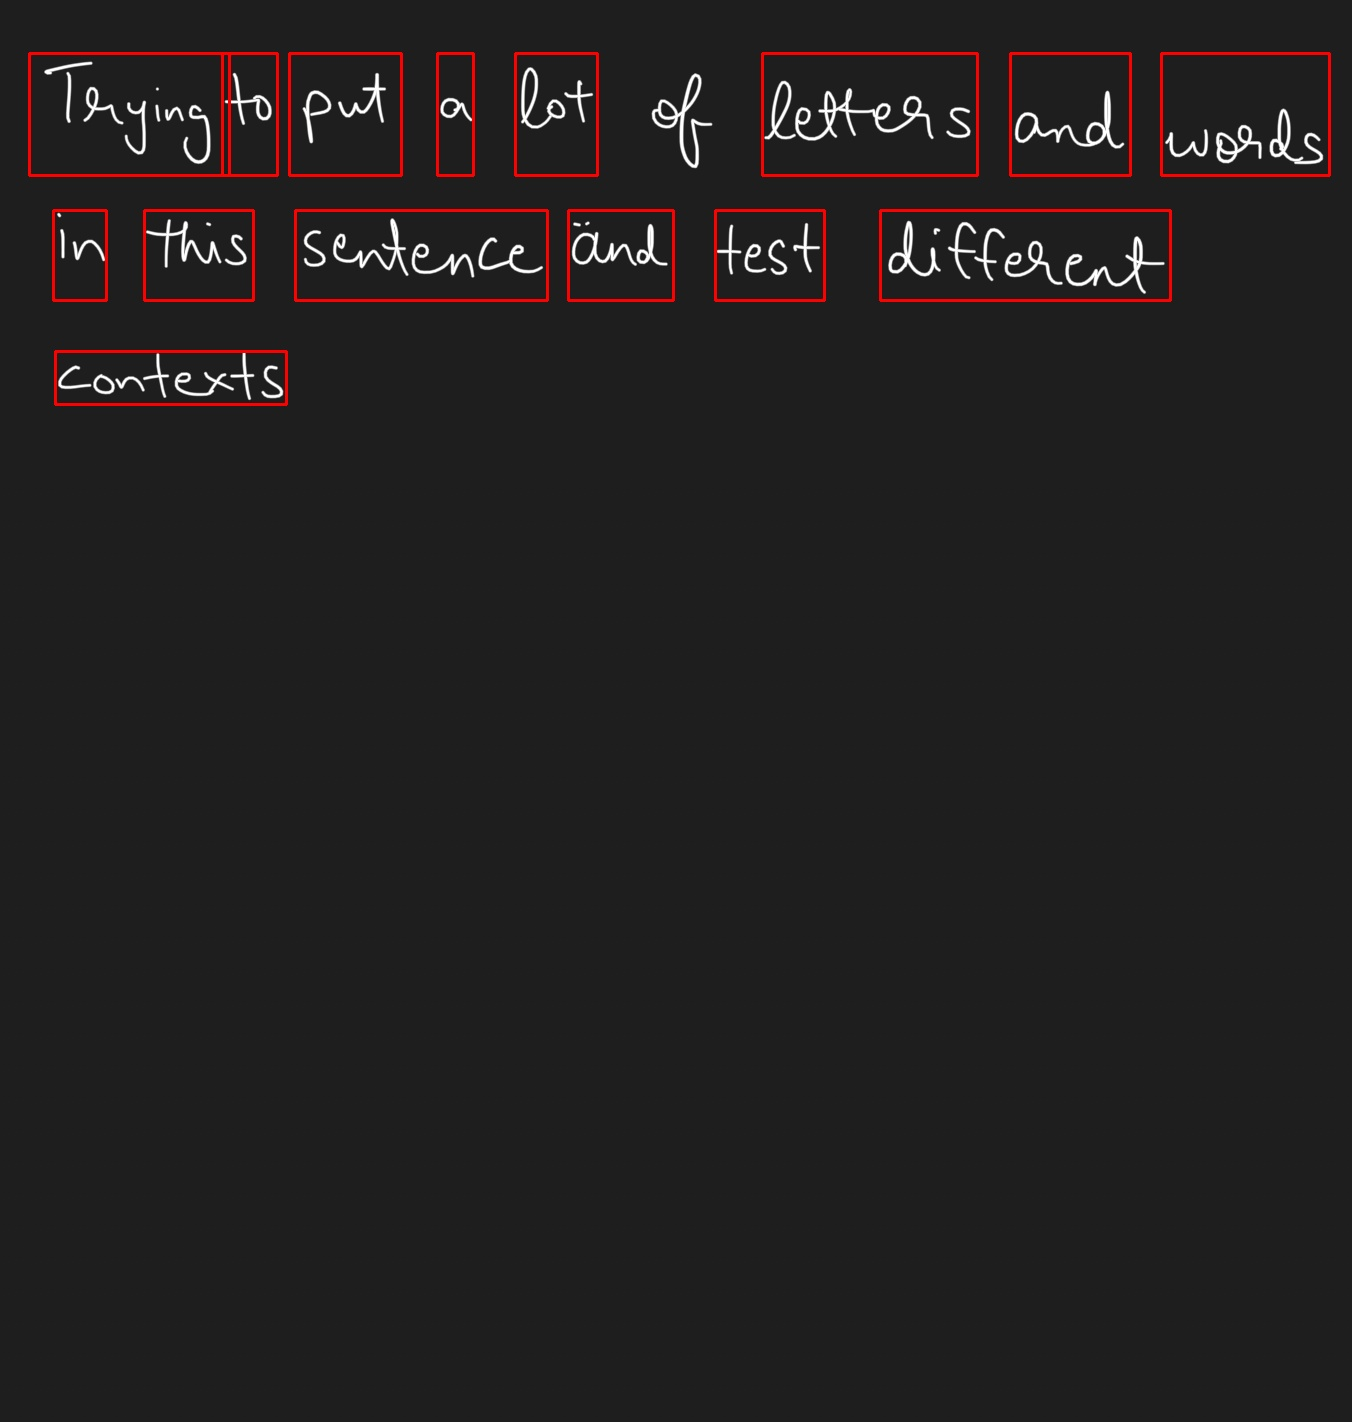
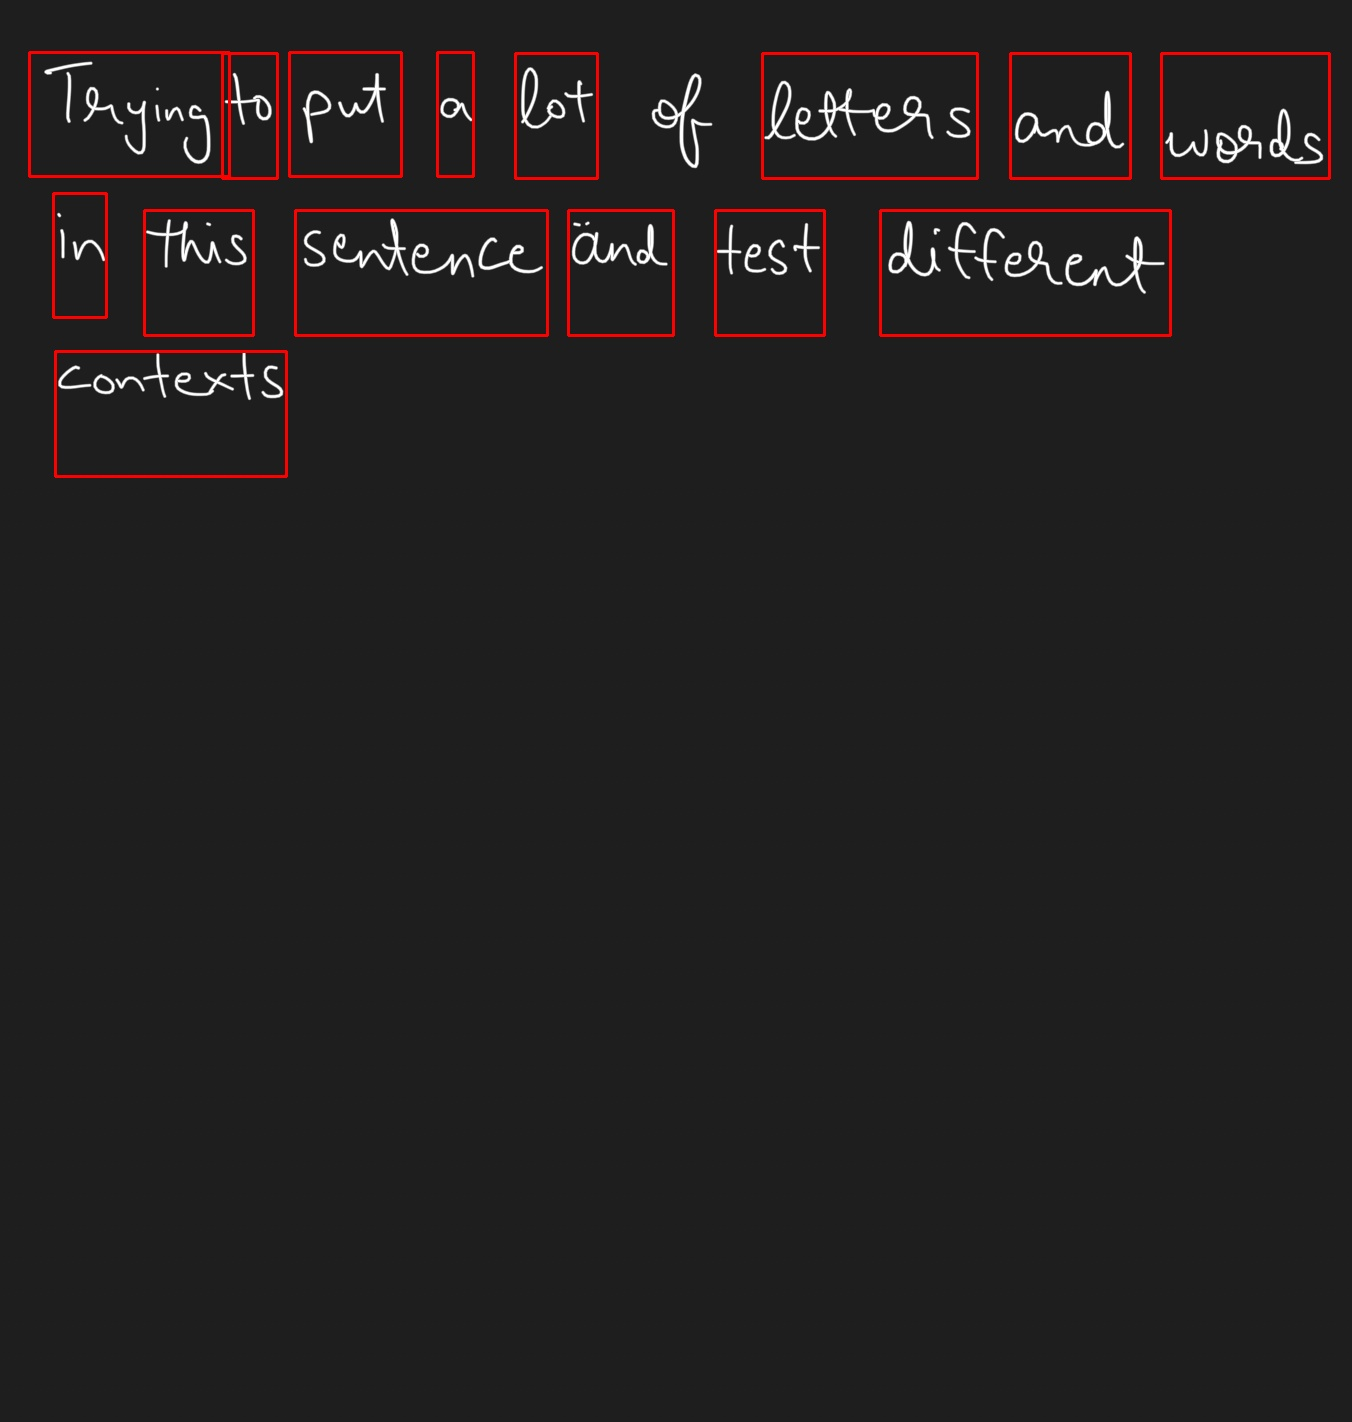
Add json encoded lines file

diff --git a/main.py b/main.py
@@ -1,19 +1,22 @@
 import cv2
 import numpy as np
 
+import constants
 from CRAFT import object_detector
 from transformers import TrOCRProcessor, VisionEncoderDecoderModel
 from PIL import Image, ImageOps
 
 if __name__ == '__main__':
     input_image_path = 'CRAFT/inputs/note.png'
-    input_image = Image.open(input_image_path).convert("RGB")
     bboxes = object_detector.generate_bbox(input_image_path=input_image_path, cuda=False).astype(int)
-    lines = object_detector.format_bbox_by_line(input_image_path=input_image_path, bboxes=bboxes)
-    processor = TrOCRProcessor.from_pretrained("microsoft/trocr-base-handwritten")
-    model = VisionEncoderDecoderModel.from_pretrained("microsoft/trocr-base-handwritten")
-    for line in lines:
-        for word in line['words']:
+    lines = object_detector.format_bbox_by_line(bboxes=bboxes)
+    temp_words = [['terying', 'to', 'put', 'a', 'lot', 'letters', 'and', 'words'], ['in', 'this', 'sentence', 'and', 'test', 'different'], ['contexts']]
+
+    input_image = Image.open(input_image_path).convert("RGB")
+    # processor = TrOCRProcessor.from_pretrained("microsoft/trocr-base-handwritten")
+    # model = VisionEncoderDecoderModel.from_pretrained("microsoft/trocr-base-handwritten")
+    for line_number, line in enumerate(lines):
+        for word_number, word in enumerate(line['words']):
             min_bbox_dims = np.min(word['bbox'], axis=0)
             max_bbox_dims = np.max(word['bbox'], axis=0)
             object_image = input_image.crop((min_bbox_dims[0], min_bbox_dims[1], max_bbox_dims[0], max_bbox_dims[1]))
@@ -32,7 +35,37 @@ if __name__ == '__main__':
             result.paste(object_image, (left, top))
             result = ImageOps.invert(result)
 
-            pixel_values = processor(result, return_tensors="pt").pixel_values
-            generated_ids = model.generate(pixel_values)
-            generated_text = processor.batch_decode(generated_ids, skip_special_tokens=True)
-            print(generated_text[0])
+            # pixel_values = processor(result, return_tensors="pt").pixel_values
+            # generated_ids = model.generate(pixel_values)
+            # generated_text = processor.batch_decode(generated_ids, skip_special_tokens=True)
+            # recognized_text = generated_text[0]
+            recognized_text = temp_words[line_number][word_number]
+
+            lines[line_number]['words'][word_number]['recognized_text'] = recognized_text
+
+            if height < constants.LINE_HEIGHT:
+                padding_needed = constants.LINE_HEIGHT - height
+                recognized_text_chars = set(recognized_text)
+                padding_direction = 0 # -1=UP, 0=UP_AND_DOWN, 1=DOWN
+                if len(recognized_text_chars.intersection(set(constants.UPPER_CHARACTERS))) > 0:
+                    if len(recognized_text_chars.intersection(set(constants.LOWER_CHARACTERS))) == 0:
+                        padding_direction = 1
+                elif len(recognized_text_chars.intersection(set(constants.LOWER_CHARACTERS))) > 0:
+                    if len(recognized_text_chars.intersection(set(constants.UPPER_CHARACTERS))) == 0:
+                        padding_direction = -1
+                top_padding = 0
+                bottom_padding = 0
+                if padding_direction == 0:
+                    top_padding = padding_needed // 2
+                    bottom_padding = padding_needed // 2
+                if padding_direction == -1:
+                    top_padding = padding_needed
+                if padding_direction == 1:
+                    bottom_padding = padding_needed
+                lines[line_number]['words'][word_number]['bbox'][0, 1] -= top_padding
+                lines[line_number]['words'][word_number]['bbox'][1, 1] -= top_padding
+                lines[line_number]['words'][word_number]['bbox'][2, 1] += bottom_padding
+                lines[line_number]['words'][word_number]['bbox'][3, 1] += bottom_padding
+    object_detector.generate_image_with_bboxes(input_image_path, lines)
+
+

diff --git a/CRAFT/object_detector.py b/CRAFT/object_detector.py
@@ -8,6 +8,7 @@ import sys
 import os
 import time
 import argparse
+import json
 
 import torch
 import torch.nn as nn
@@ -26,6 +27,7 @@ import json
 import zipfile
 
 from CRAFT.craft import CRAFT
+from CRAFT.file_utils import NpEncoder
 
 from collections import OrderedDict
 
@@ -181,12 +183,7 @@ def generate_bbox(
     return bboxes
 
 
-def format_bbox_by_line(input_image_path, bboxes):
-    result_folder = 'CRAFT/result'
-    if not os.path.isdir(result_folder):
-        os.mkdir(result_folder)
-
-    img = cv2.imread(input_image_path)
+def format_bbox_by_line(bboxes):
     num_bboxes = bboxes.shape[0]
     words = []
     for i in range(num_bboxes):
@@ -251,6 +248,14 @@ def format_bbox_by_line(input_image_path, bboxes):
         del lines[line_number]['max_y']
         words.append(lines[line_number]['words'])
     lines = list(lines.values())
+    return lines
+
+
+def generate_image_with_bboxes(input_image_path, lines):
+    img = cv2.imread(input_image_path)
+    result_folder = 'CRAFT/result'
+    if not os.path.isdir(result_folder):
+        os.mkdir(result_folder)
     for line in lines:
         for word in line['words']:
             poly = np.array(word['bbox']).astype(np.int32).reshape((-1))
@@ -260,4 +265,6 @@ def format_bbox_by_line(input_image_path, bboxes):
     filename, file_ext = os.path.splitext(os.path.basename(input_image_path))
     result_file = result_folder + "/formatted_res_" + filename + '.jpg'
     cv2.imwrite(result_file, img)
-    return lines
+    result_json = result_folder + "/formatted_res_" + filename + ".json"
+    with open(result_json, "w") as outfile:
+        json.dump(lines, outfile, cls=NpEncoder)

diff --git a/CRAFT/file_utils.py b/CRAFT/file_utils.py
@@ -1,4 +1,5 @@
 # -*- coding: utf-8 -*-
+import json
 import os
 import numpy as np
 import cv2
@@ -74,3 +75,13 @@ def saveResult(img_file, img, boxes, dirname='./result/', verticals=None, texts=
         # Save result image
         cv2.imwrite(res_img_file, img)
 
+
+class NpEncoder(json.JSONEncoder):
+    def default(self, obj):
+        if isinstance(obj, np.integer):
+            return int(obj)
+        if isinstance(obj, np.floating):
+            return float(obj)
+        if isinstance(obj, np.ndarray):
+            return obj.tolist()
+        return super(NpEncoder, self).default(obj)

diff --git a/constants.py b/constants.py
@@ -1,1 +1,4 @@
 LINE_HEIGHT = 125
+MIDDLE_CHARACTERS = ['a', 'c', 'e', 'i', 'm', 'n', 'o', 'r', 's', 'u', 'v', 'w', 'x', 'z'] # n=14
+UPPER_CHARACTERS = ['b', 'd', 'f', 'h', 'k', 'l', 't'] # n=7
+LOWER_CHARACTERS = ['g', 'j', 'p', 'q', 'y'] # n=5
